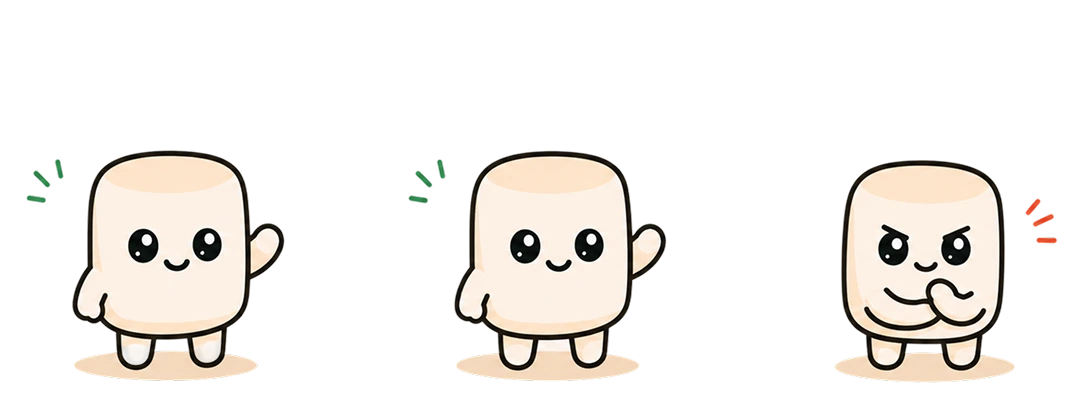
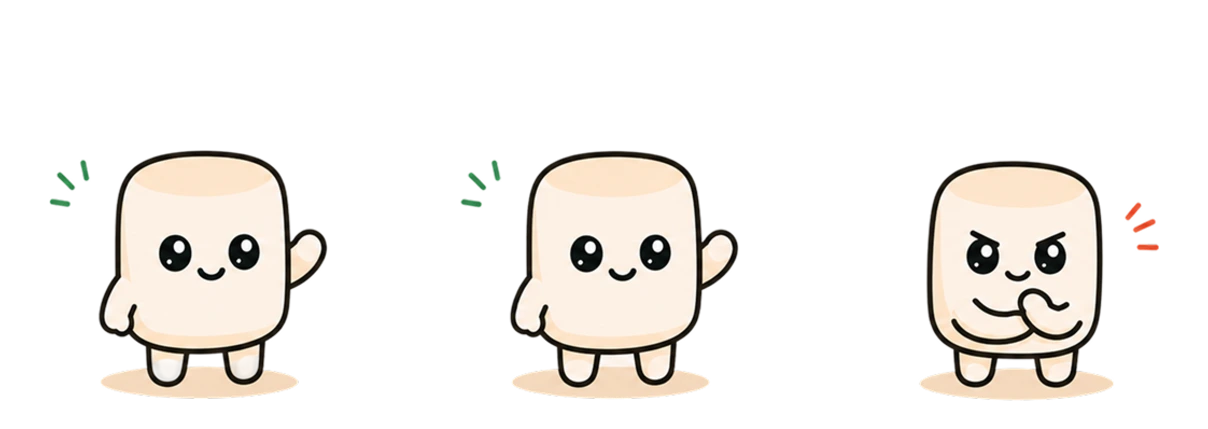
fix(howto): normalise lead illustrations instead of cropping them (#200)
The word characters rendered about 12% larger than the dance ones. The first
pass cropped each illustration to its own ink, and both then laid out at the
same width on the page, so the three-character scene was scaled up against the
four-character one.

Leads are now composed under two rules. First to a common character height:
each master's body band is measured, the rows carrying most of the ink, which
is torsos rather than headphones, and the drawing is scaled until that band
matches the tallest in the set. That step earns its keep on its own, since the
masters are not drawn consistently and word's characters arrived 7% shorter.
Then onto a common artboard, declared once as LEAD_BOARD instead of repeated
per image, centred at that scale.

A three-character scene therefore carries wider side margins rather than being
stretched to fill.

Dance body 85.5px, word 85.8px at the same 432px column, against 85.5 and 79.4
before. No size is stated twice: the per-image width/height keys are gone and
marks stay percentages of the one board, measured off the alpha channel.

src/art/README.md carries the procedure, including the part that is easy to get
wrong: a new drawing with taller characters moves the reference height, so
every lead has to be recomposed rather than just the one that changed.

Verified: build:check clean, nine test files pass, eslint clean.

diff --git a/www/es/word/index.html b/www/es/word/index.html
@@ -208,7 +208,7 @@
             </defs>
           </svg>
           <h1>Impostor<br/>de Palabras</h1>
-          <div class="sub" id="app-version" hidden aria-hidden="true">v2026.09.03.15</div>
+          <div class="sub" id="app-version" hidden aria-hidden="true">v2026.09.03.16</div>
         </div>
 
         <div class="eyebrow">Crea una sala o únete a una partida</div>
@@ -253,10 +253,10 @@
         </div>
 
         <figure class="howto-lead">
-          <img src="/imposter-word-how-to-play.webp" width="1083" height="409" loading="lazy" decoding="async" alt="Tres jugadores mirando el móvil. Dos han recibido la misma palabra secreta, Rana. El tercero es el impostor y solo ve una pista vaga, Croar, sin saber cuál es la palabra real.">
-          <span class="howto-lead-mark howto-lead-card tone-crew" style="left:15.5%">Rana</span>
+          <img src="/imposter-word-how-to-play.webp" width="1208" height="429" loading="lazy" decoding="async" alt="Tres jugadores mirando el móvil. Dos han recibido la misma palabra secreta, Rana. El tercero es el impostor y solo ve una pista vaga, Croar, sin saber cuál es la palabra real.">
+          <span class="howto-lead-mark howto-lead-card tone-crew" style="left:16.7%">Rana</span>
           <span class="howto-lead-mark howto-lead-card tone-crew" style="left:50.8%">Rana</span>
-          <span class="howto-lead-mark howto-lead-card tone-impostor" style="left:85.2%">Croar</span>
+          <span class="howto-lead-mark howto-lead-card tone-impostor" style="left:84%">Croar</span>
         </figure>
 
         <p class="howto-def">El <strong>Juego del Impostor de Palabras</strong> (también llamado <strong>Undercover</strong>) es un juego de fiesta en el que todos ven en secreto la misma palabra, menos un impostor, que solo recibe una pista vaga. Por turnos, cada jugador dice una palabra que la describa; el grupo intenta atrapar al impostor mientras el impostor se hace el distraído e intenta adivinar la palabra secreta. Puedes jugar gratis aquí mismo, en <strong>impostorgames.com/es/word</strong>: sin app, sin registro, de 3 a 20 jugadores y desde el navegador de cualquier teléfono.</p>

diff --git a/www/word/index.html b/www/word/index.html
@@ -208,7 +208,7 @@
             </defs>
           </svg>
           <h1>Impostor<br/>Word Game</h1>
-          <div class="sub" id="app-version" hidden aria-hidden="true">v2026.09.03.15</div>
+          <div class="sub" id="app-version" hidden aria-hidden="true">v2026.09.03.16</div>
         </div>
 
         <div class="eyebrow">Create or Join the game</div>
@@ -253,10 +253,10 @@
         </div>
 
         <figure class="howto-lead">
-          <img src="/imposter-word-how-to-play.webp" width="1083" height="409" loading="lazy" decoding="async" alt="Three players looking at their phones. Two have been dealt the same secret word, Frog. The third is the impostor and sees only a vague hint, Jumpy, with no idea what the real word is.">
-          <span class="howto-lead-mark howto-lead-card tone-crew" style="left:15.5%">Frog</span>
+          <img src="/imposter-word-how-to-play.webp" width="1208" height="429" loading="lazy" decoding="async" alt="Three players looking at their phones. Two have been dealt the same secret word, Frog. The third is the impostor and sees only a vague hint, Jumpy, with no idea what the real word is.">
+          <span class="howto-lead-mark howto-lead-card tone-crew" style="left:16.7%">Frog</span>
           <span class="howto-lead-mark howto-lead-card tone-crew" style="left:50.8%">Frog</span>
-          <span class="howto-lead-mark howto-lead-card tone-impostor" style="left:85.2%">Jumpy</span>
+          <span class="howto-lead-mark howto-lead-card tone-impostor" style="left:84%">Jumpy</span>
         </figure>
 
         <p class="howto-def">The <strong>Impostor Word Game</strong> (also called the <strong>Imposter Word Game</strong> or <strong>Undercover</strong>) is a party game where everyone secretly sees the same word — except one impostor, who only gets a vague hint. Players take turns saying one clue word each; the group tries to expose the impostor while the impostor bluffs and tries to guess the secret word. You can play it free online right here at <strong>impostorgames.com/word</strong> — no app, no sign-up, 3–20 players, works on any phone browser.</p>

diff --git a/www/es/draw/index.html b/www/es/draw/index.html
@@ -181,7 +181,7 @@
             </g>
           </svg>
           <h1>Impostor<br/>de Dibujos</h1>
-          <div class="sub" id="app-version" hidden aria-hidden="true">v2026.09.03.15</div>
+          <div class="sub" id="app-version" hidden aria-hidden="true">v2026.09.03.16</div>
         </div>
 
         <div class="eyebrow">Crea una sala o únete a una partida</div>

diff --git a/www/es/dance/index.html b/www/es/dance/index.html
@@ -190,7 +190,7 @@
             </g>
           </svg>
           <h1>Impostor<br/>de Baile</h1>
-          <div class="sub" id="app-version" hidden aria-hidden="true">v2026.09.03.15</div>
+          <div class="sub" id="app-version" hidden aria-hidden="true">v2026.09.03.16</div>
         </div>
 
         <div class="eyebrow">Crea una sala o únete a una partida</div>

diff --git a/www/dance/index.html b/www/dance/index.html
@@ -192,7 +192,7 @@
             </g>
           </svg>
           <h1>Impostor<br/>Dance Game</h1>
-          <div class="sub" id="app-version" hidden aria-hidden="true">v2026.09.03.15</div>
+          <div class="sub" id="app-version" hidden aria-hidden="true">v2026.09.03.16</div>
         </div>
 
         <div class="eyebrow">Create or Join the game</div>

diff --git a/www/draw/index.html b/www/draw/index.html
@@ -186,7 +186,7 @@
             </g>
           </svg>
           <h1>Impostor<br/>Artist</h1>
-          <div class="sub" id="app-version" hidden aria-hidden="true">v2026.09.03.15</div>
+          <div class="sub" id="app-version" hidden aria-hidden="true">v2026.09.03.16</div>
         </div>
 
         <div class="eyebrow">Create or Join the game</div>

diff --git a/www/es/index.html b/www/es/index.html
@@ -700,7 +700,7 @@
       <a href="/es/dance/">Impostor de Baile</a> · 
       <a href="/es/word/">Impostor de Palabras</a> · 
       <a href="/es/draw/">Impostor de Dibujos</a>
-      <div class="version" id="app-version">v2026.09.03.15</div>
+      <div class="version" id="app-version">v2026.09.03.16</div>
     </footer>
   </div>
 

diff --git a/www/index.html b/www/index.html
@@ -728,7 +728,7 @@
       <a href="/dance/">Impostor Dance Game</a> · 
       <a href="/word/">Impostor Word Game</a> · 
       <a href="/draw/">Impostor Artist</a>
-      <div class="version" id="app-version">v2026.09.03.15</div>
+      <div class="version" id="app-version">v2026.09.03.16</div>
     </footer>
   </div>
 

diff --git a/src/art/README.md b/src/art/README.md
@@ -1,7 +1,7 @@
 # Art masters
 
 Source files for illustrations that ship as compressed assets under `www/`.
-The `.webp` in `www/` is the build output; these are what it was made from.
+The `.webp` in `www/` is the processed output; these are what it was made from.
 
 ## how-to-play leads
 
@@ -9,8 +9,8 @@ The `.webp` in `www/` is the build output; these are what it was made from.
 for the How to Play section of each game (#200).
 
 They contain **characters only, on a transparent ground**, with empty space
-left above their heads. Everything that goes in that space, the music notes
-for dance and the word cards for word, is drawn in HTML over the top by
+left above their heads. Everything that goes in that space, the music notes for
+dance and the word cards for word, is drawn in HTML over the top by
 `src/components/howto-lead.njk`. Nothing that is a word may be baked into the
 picture, or `/es/` gets an English illustration, which is the bug in #199.
 
@@ -18,19 +18,43 @@ Transparency is load-bearing too. It means the art sits on the page's own
 background with no rectangle around it, and keeps working if that background
 ever changes.
 
-To regenerate the shipped assets after editing a master:
+### The two normalisations
 
-```sh
-cwebp -q 90 -m 6 -alpha_q 100 src/art/dance-how-to-play.png -o www/imposter-dance-how-to-play.webp
-cwebp -q 90 -m 6 -alpha_q 100 src/art/word-how-to-play.png  -o www/imposter-word-how-to-play.webp
-```
+A shipped lead is not a crop of its master. It is composed, and both steps
+exist to keep one rule: **a character is the same size on every game's page.**
 
-Lossy at q90 is deliberate. Lossless WebP is nearly three times the size on
-this artwork, because the characters carry soft shading rather than flat fill.
+1. **Common character height.** The optical unit is the marshmallow, not the
+   file. Measure each master's body band, the rows carrying more than 35% of
+   the peak ink, which is torsos rather than headphones or speed lines. Scale
+   each drawing so that band matches the tallest across the whole set. The
+   masters are not drawn consistently: word's characters arrived about 7%
+   shorter than dance's.
 
-If a master is ever redrawn, the mark positions in `howto-lead.njk` have to be
-re-measured. They are the centre of each character's head as a percentage of
-the image width, taken off the alpha channel.
+2. **Common artboard.** Currently **1208x429**, and `howto-lead.njk` declares it
+   once as `LEAD_BOARD`. Place each scaled drawing centred horizontally with
+   the top of its ink at 150px, leaving 26px of padding elsewhere. The board is
+   the widest scaled ink plus padding, and the tallest scaled ink plus the
+   headroom and padding.
+
+A three-character scene therefore carries wider side margins than a
+four-character one, rather than being stretched to fill. Skip these steps and
+crop each master to its own ink, and the three-character art renders about 12%
+larger than the four-character one, because both are laid out at the same width
+on the page. That was the first attempt, and it was visibly wrong.
+
+Export WebP at quality 0.92. Lossy is deliberate: lossless is nearly three
+times the size on this artwork, because the characters carry soft shading
+rather than flat fill.
+
+### After any change to a master
+
+Re-run both normalisations for **every** lead, not just the one that changed. A
+new drawing with taller characters moves the reference height, so the others
+have to be recomposed against it.
+
+Then re-measure the mark positions in `howto-lead.njk`. They are the centre of
+each character's head as a percentage of the artboard width, taken off the
+alpha channel of the composed image rather than estimated by eye.
 
 The `.jpg` files are the earlier, superseded versions of the same two images.
 They are kept only until someone confirms they are not needed.

diff --git a/WORKLOG.md b/WORKLOG.md
@@ -5,6 +5,48 @@ Project journal: what's being worked on, decisions made, and status. Newest entr
 
 ---
 
+## 2026-09-03: how-to leads are normalised, not cropped (#200)
+
+Irfan spotted that the word characters render bigger than the dance ones. He
+was right, and the cause was mine: the first pass cropped each illustration to
+its own ink. Both then laid out at the same width on the page, so the
+three-character scene was scaled up against the four-character one, about 12%.
+
+Shipped leads are now composed rather than cropped, under two rules.
+
+**Common character height.** The optical unit is the marshmallow, not the file.
+Each master's body band is measured, the rows carrying more than 35% of peak
+ink, which is torsos rather than headphones or speed lines, and the drawing is
+scaled until that band matches the tallest across the set. Worth doing on its
+own merits: the masters are not drawn consistently, and word's characters
+arrived 7% shorter than dance's, so even a shared canvas alone still left them
+mismatched.
+
+**Common artboard.** 1208x429, declared once in `howto-lead.njk` as
+`LEAD_BOARD` rather than repeated per image. Each scaled drawing is centred on
+it. A three-character scene now carries wider side margins instead of being
+stretched to fill.
+
+Measured after: dance body 85.5px, word 85.8px at the same 432px column. They
+were 85.5 and 79.4 before, and would have been 85.5 against roughly 93 under
+the original crops.
+
+Nothing about size is stated twice any more. The board is one constant, the
+per-image `width`/`height` keys are gone, and mark positions stay percentages
+of that board, measured off the alpha channel rather than guessed.
+
+`src/art/README.md` now carries the procedure, including the part that is easy
+to get wrong: a new drawing with taller characters moves the reference height,
+so every lead has to be recomposed, not just the one that changed.
+
+### Verified
+
+`build:check` clean, nine test files pass, eslint clean. Character heights
+within 0.4%, and the only remaining dimensions in the component are the single
+shared artboard.
+
+---
+
 ## 2026-09-03: Find Your Squad gets its own How to Play (#200)
 
 Two asks from Irfan: put the illustration in the lobby popup too, and give
